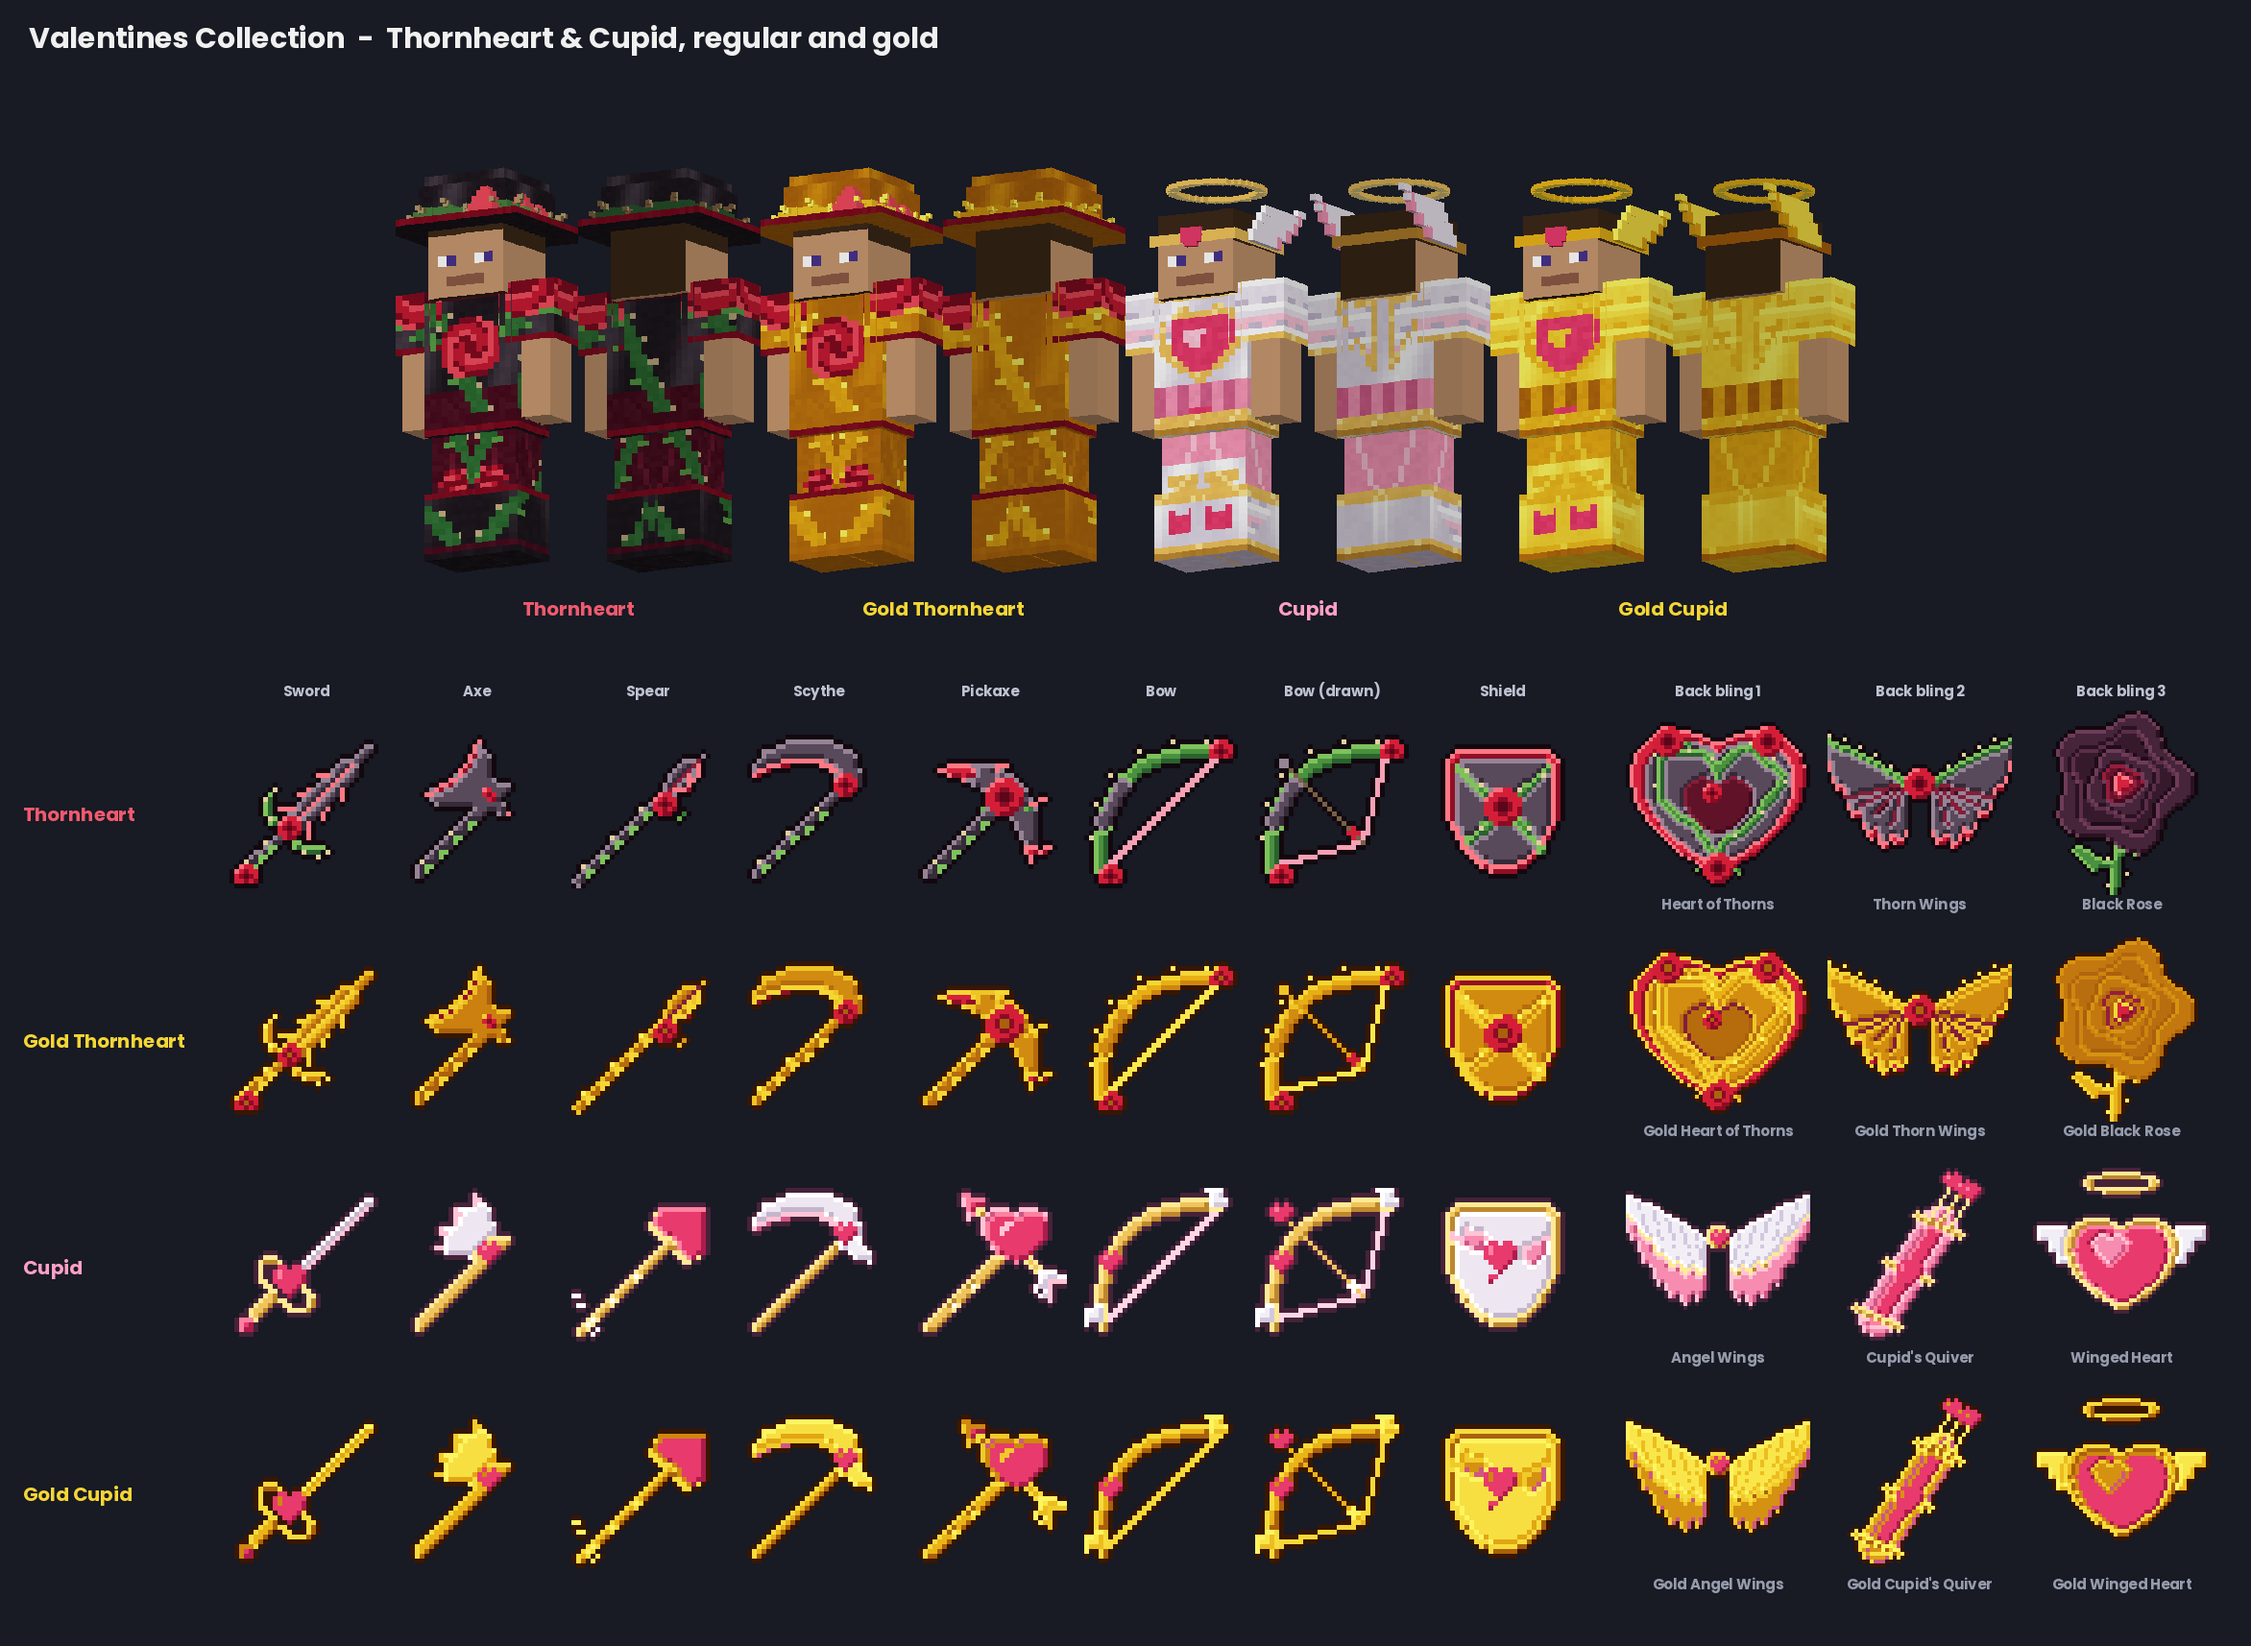
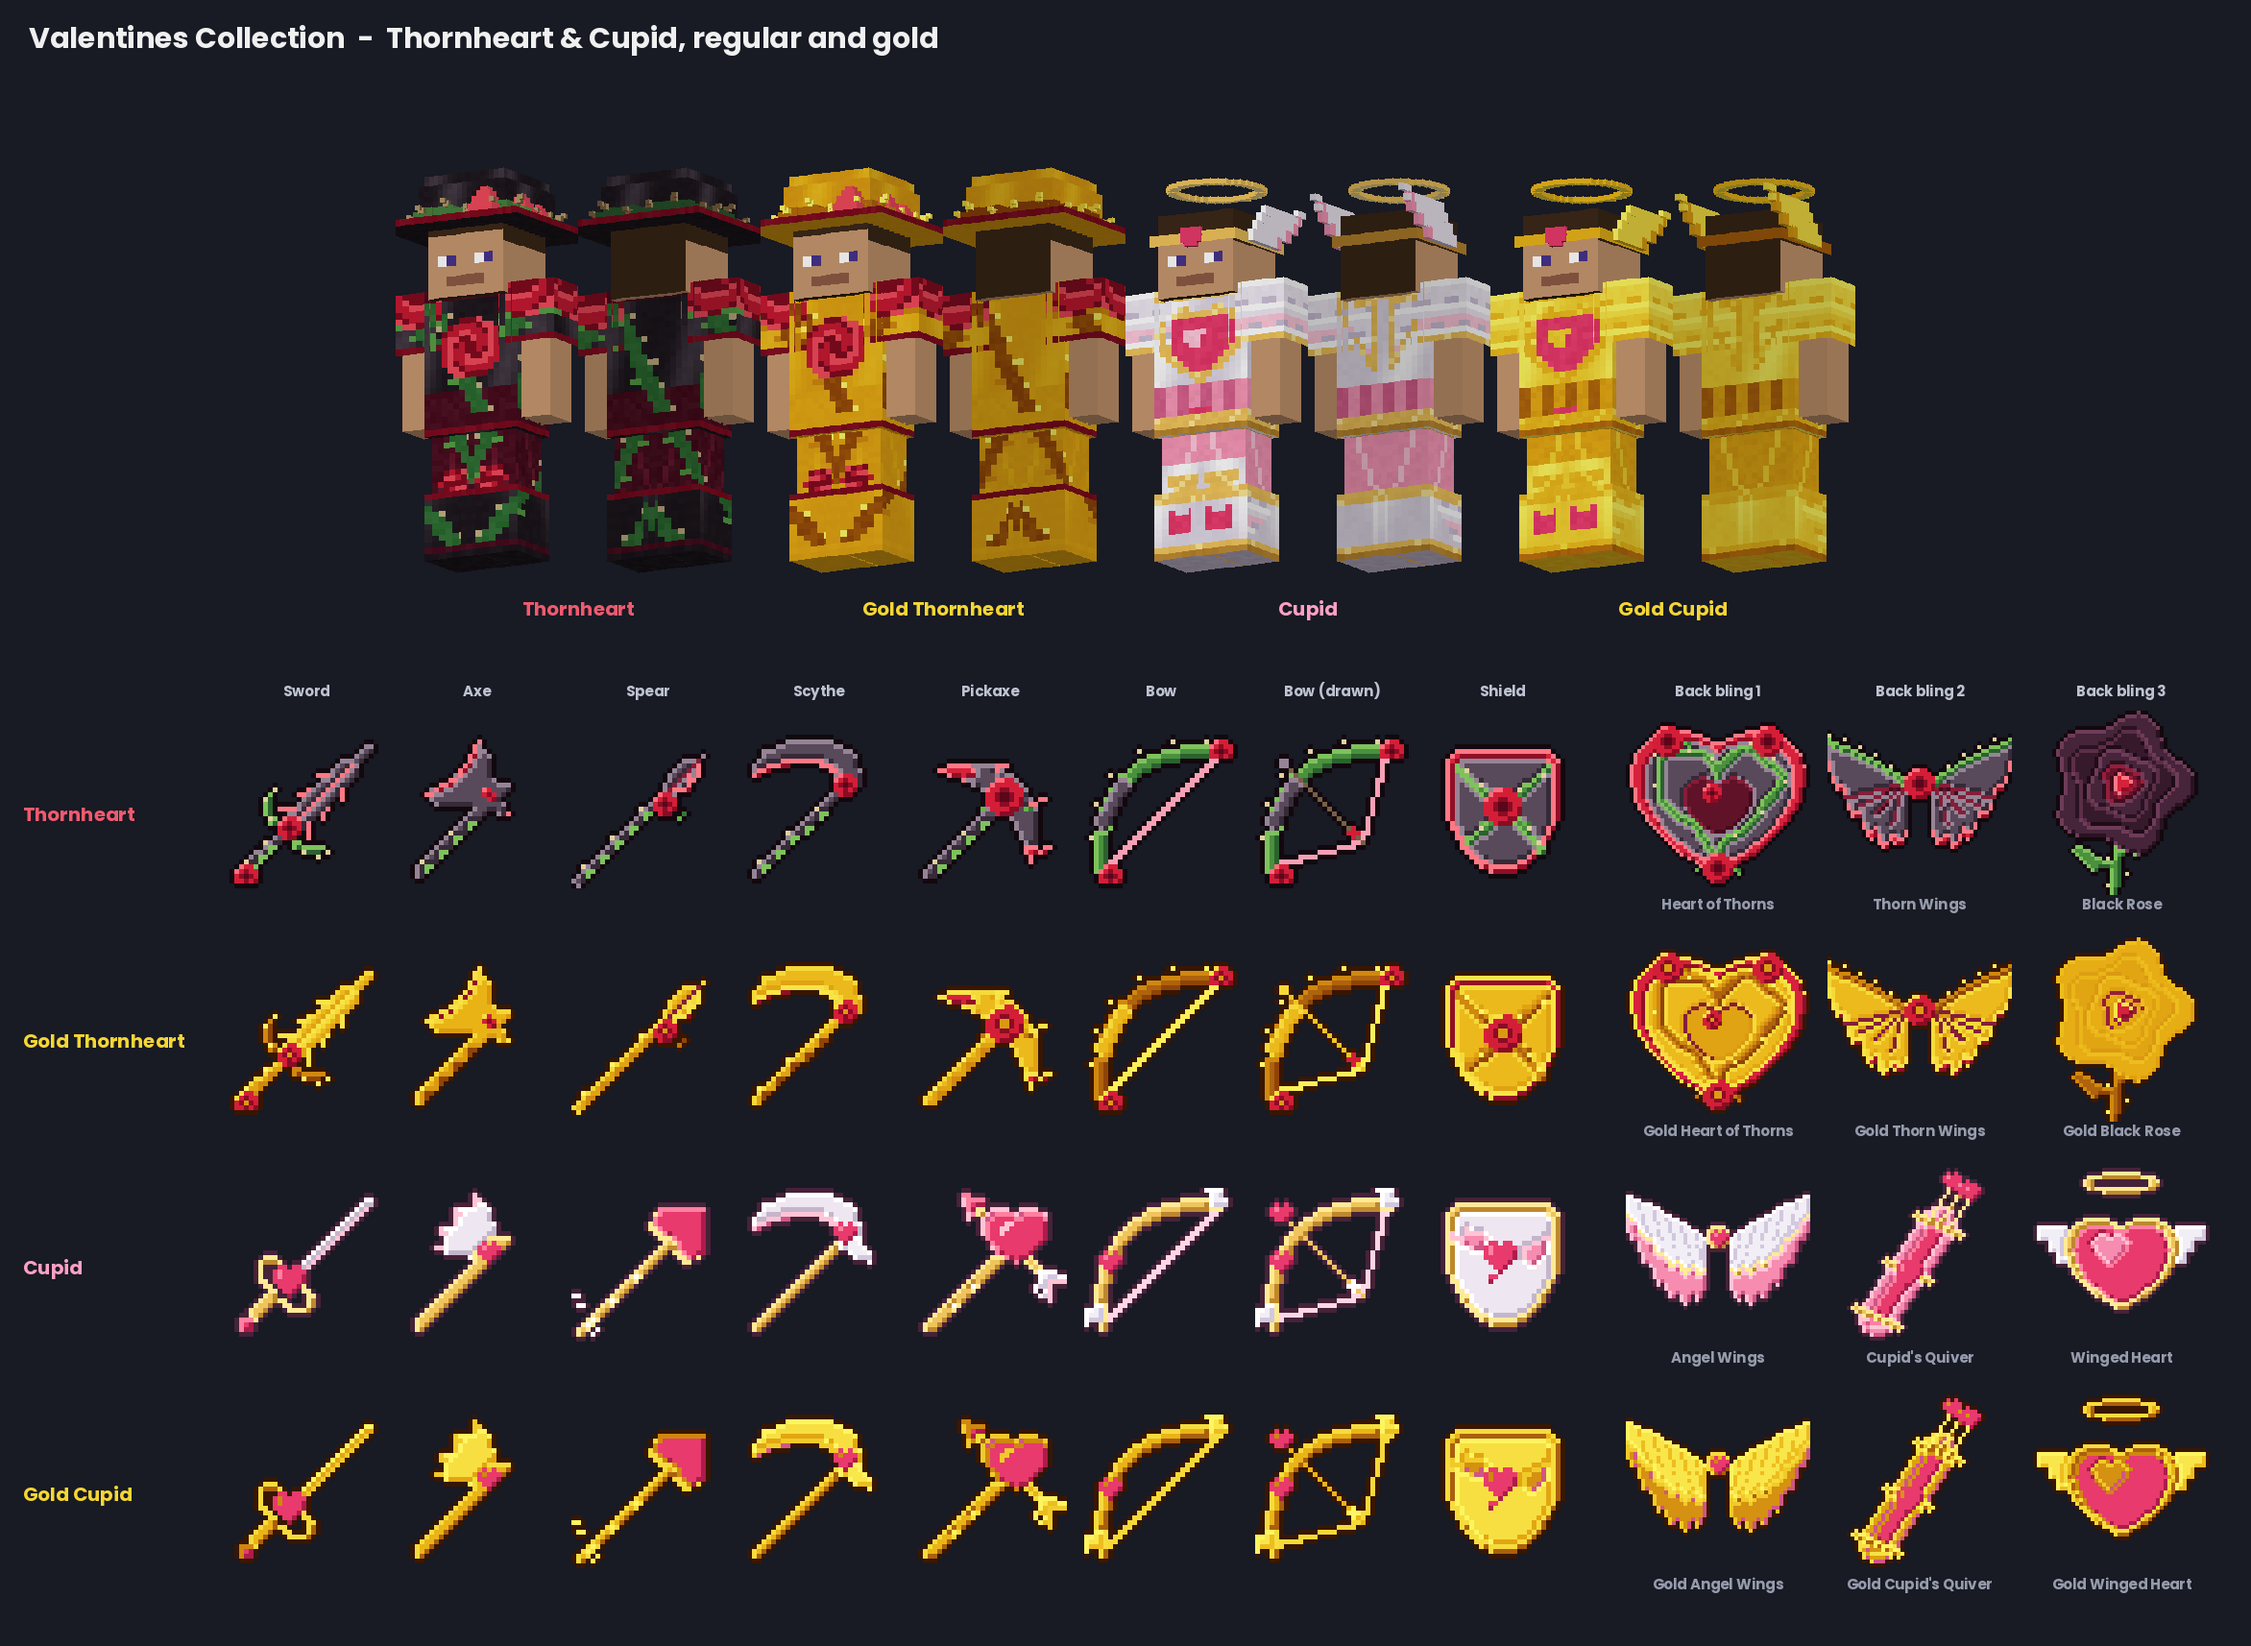
Concepts: Gold Thornheart with bright gold plate and dark gold vines
Claude-Session: https://claude.ai/code/session_01UtexKntMTy5LWKErqeLgdQ

diff --git a/resource-pack/concepts/valentines_all.py b/resource-pack/concepts/valentines_all.py
@@ -28,26 +28,39 @@ def lum(c):
     return 0.3 * c[0] + 0.59 * c[1] + 0.11 * c[2]
 
 
+def is_vine(c):
+    r, g, b = c[:3]
+    return g > r and g > b
+
+
 class Golder:
-    """maps colours to gold by brightness, stretched over the brightness range of one asset."""
-    def __init__(self, colors, lo=0.2, hi=0.84):
-        ls = [lum(c) for c in colors if not is_gem(c)]
-        self.l0, self.l1 = (min(ls), max(ls)) if ls else (0, 255)
-        self.lo, self.hi = lo, hi
+    """maps colours to gold by brightness, stretched over the brightness range of one asset.
+    With vines_dark, green vine/leaf pixels get the deep end of the ramp and the plate the bright end,
+    so the armor reads as bright gold with darker gold vines on it."""
+    def __init__(self, colors, lo=0.2, hi=0.84, vines_dark=False):
+        self.vd = vines_dark
+        plate = [lum(c) for c in colors if not is_gem(c) and not (vines_dark and is_vine(c))]
+        vines = [lum(c) for c in colors if vines_dark and is_vine(c)]
+        self.l0, self.l1 = (min(plate), max(plate)) if plate else (0, 255)
+        self.v0, self.v1 = (min(vines), max(vines)) if vines else (0, 255)
+        self.lo, self.hi = (0.42, 0.86) if vines_dark else (lo, hi)
 
     def __call__(self, c):
         if is_gem(c):
             return tuple(c[:3])
+        if self.vd and is_vine(c):
+            t = (lum(c) - self.v0) / max(1, self.v1 - self.v0)
+            return ramp(0.1 + 0.26 * t)
         t = (lum(c) - self.l0) / max(1, self.l1 - self.l0)
         return ramp(self.lo + (self.hi - self.lo) * t)
 
 
-def gold_image(img, outline=None):
+def gold_image(img, outline=None, vines_dark=False):
     img = img.convert('RGBA')
     px = img.load()
     cols = [px[x, y] for y in range(img.size[1]) for x in range(img.size[0])
             if px[x, y][3] and (outline is None or px[x, y][:3] != tuple(outline))]
-    g = Golder(cols)
+    g = Golder(cols, vines_dark=vines_dark)
     out = img.copy(); po = out.load()
     for y in range(img.size[1]):
         for x in range(img.size[0]):
@@ -58,8 +71,8 @@ def gold_image(img, outline=None):
     return out
 
 
-def gold_quads(Q):
-    g = Golder([c for _, c, _ in Q])
+def gold_quads(Q, vines_dark=False):
+    g = Golder([c for _, c, _ in Q], vines_dark=vines_dark)
     return [(p, g(c) + (255,), f) for p, c, f in Q]
 
 
@@ -106,11 +119,12 @@ d.text((30, 18), 'Valentines Collection  -  Thornheart & Cupid, regular and gold
 
 # ---- armor: four sets, front and back
 for i, (name, M, l1, l2, h3d, gold, col) in enumerate(SETS):
-    a1, a2 = (gold_image(l1), gold_image(l2)) if gold else (l1, l2)
+    vd = M is T
+    a1, a2 = (gold_image(l1, vines_dark=vd), gold_image(l2, vines_dark=vd)) if gold else (l1, l2)
     R.L1, R.L2 = a1, a2
     hq = h3d(0)
     if gold:
-        hq = gold_quads(hq)
+        hq = gold_quads(hq, vines_dark=vd)
     Q = player(with_helmet3d=False) + hq
     x0 = 30 + i * 2 * 190 + (W - 60 - ARMOR_W) // 2
     sheet.alpha_composite(render(Q, -30, -12, 11, (190, 520)), (x0, 90))
@@ -131,14 +145,14 @@ for j, (name, M, l1, l2, h3d, gold, col) in enumerate(SETS):
         s = fn(M)
         im = s.image()
         if gold:
-            im = gold_image(im, s.outline)
+            im = gold_image(im, s.outline, vines_dark=M is T)
         big = im.resize((32 * TS, 32 * TS), Image.NEAREST)
         sheet.alpha_composite(big, (LEFT + i * TC + 9, y + (row_h - 26 - 32 * TS) // 2))
     for k, fn in enumerate(BLINGS[M]):
         s = fn()
         im = s.image()
         if gold:
-            im = gold_image(im, s.outline)
+            im = gold_image(im, s.outline, vines_dark=M is T)
         big = im.resize((48 * BS, 48 * BS), Image.NEAREST)
         bx = LEFT + len(TOOLS) * TC + 30 + k * BC
         sheet.alpha_composite(big, (bx + 9, y))
